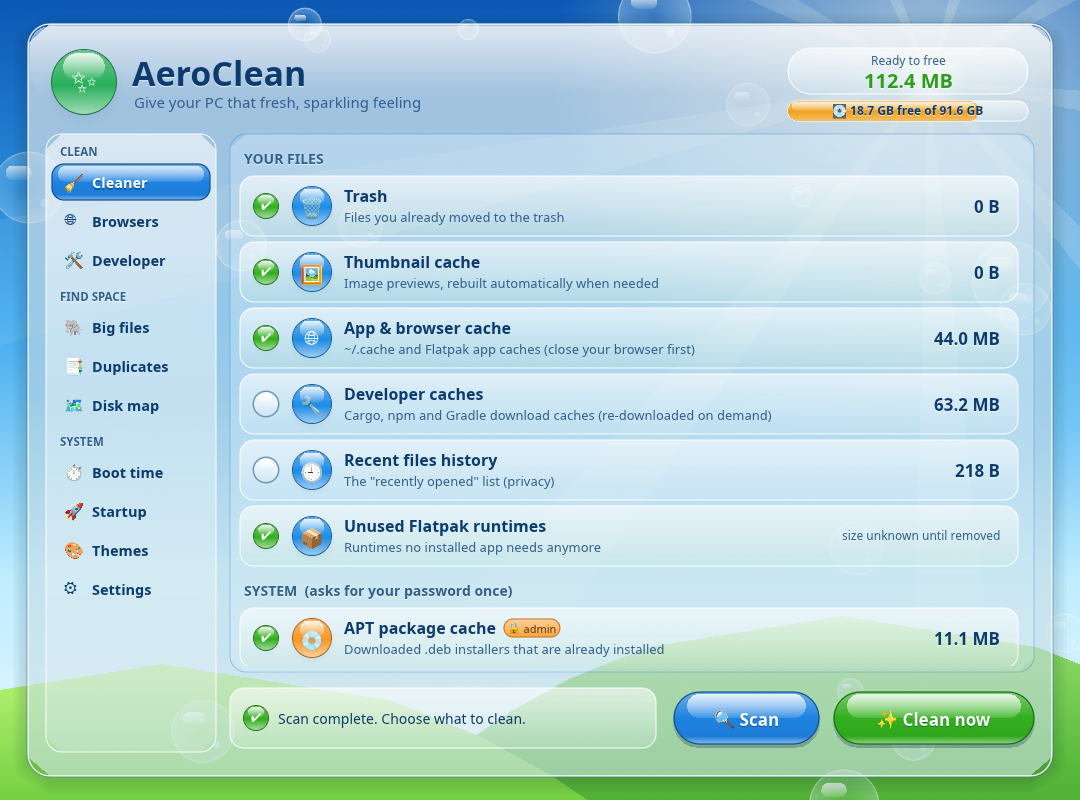
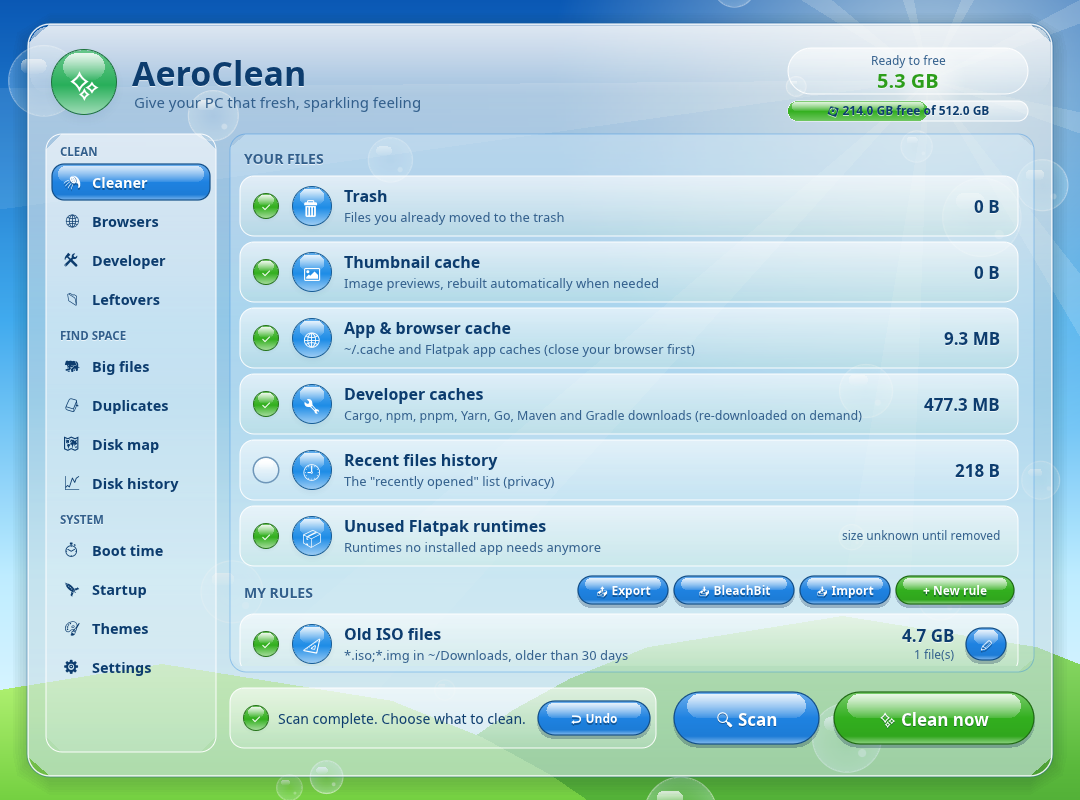
README: new screenshots and an updated feature list
Ten fresh screenshots of the current app (Frutiger Aero theme, sample
folders and files): Cleaner, rules, Developer, Leftovers, Duplicates
with similar photos, Disk history, Disk map, Boot time, French, Themes.
The feature list is regrouped and covers everything up to 1.5.

The screenshot test can pick a theme (AERO_SHOT_THEME) and fills every
screen with sample data (AERO_SHOT_DEMO), so README images never show
anyone's real folders.

diff --git a/src/main.rs b/src/main.rs
@@ -945,16 +945,81 @@ mod ui_tests {
             setup_fonts(&cc.egui_ctx);
             App::new(&cc.egui_ctx)
         });
+        // AERO_SHOT_THEME="Frutiger Aero" picks a theme by name.
+        if let Ok(name) = std::env::var("AERO_SHOT_THEME")
+            && let Some(i) = h.state().themes.iter().position(|t| t.name == name)
+        {
+            h.state_mut().theme = i;
+            let ctx = h.ctx.clone();
+            h.state().apply_visuals(&ctx);
+        }
         let only = std::env::var("AERO_SHOT_TAB").ok();
+        let demo = std::env::var("AERO_SHOT_DEMO").is_ok();
+        let days_ago = |d: u64| Some(std::time::SystemTime::now() - std::time::Duration::from_secs(d * 86_400));
         for tab in ALL_TABS {
             if only.as_deref().is_some_and(|o| o != format!("{tab:?}")) {
                 continue;
             }
             h.state_mut().tab = tab;
             // Give background work (scans, drive health) a moment to finish.
-            for _ in 0..30 {
+            for _ in 0..if demo { 60 } else { 30 } {
                 h.run_steps(1);
                 std::thread::sleep(std::time::Duration::from_millis(100));
+            }
+            // Sample folders instead of the real home folder, for README screenshots.
+            if demo && tab == Tab::DiskMap {
+                let home = platform::home();
+                let node = |name: &str, gb: f64, kids: Vec<diskmap::Node>| diskmap::Node {
+                    name: name.into(),
+                    path: home.join(name),
+                    size: (gb * 1e9) as u64,
+                    is_dir: true,
+                    children: kids,
+                };
+                let leaf = |name: &str, gb: f64| node(name, gb, vec![]);
+                let kids = vec![
+                    node("Videos", 38.0, vec![leaf("Vacation 2026", 21.0), leaf("OBS", 12.0), leaf("Clips", 5.0)]),
+                    node("Games", 22.5, vec![leaf("Steam", 18.0), leaf("Emulators", 4.5)]),
+                    node("Pictures", 12.4, vec![leaf("Phone", 8.0), leaf("Screenshots", 4.4)]),
+                    leaf("Downloads", 9.1),
+                    leaf(".cache", 6.3),
+                    leaf("Music", 5.2),
+                    leaf("Documents", 3.8),
+                    leaf(".local", 3.1),
+                    leaf("projects", 2.4),
+                    leaf(".config", 1.2),
+                ];
+                let total = kids.iter().map(|k| k.size).sum();
+                h.state_mut().map =
+                    tabs::MapState { root: Some(diskmap::Node { name: "~".into(), path: home.clone(), size: total, is_dir: true, children: kids }), path: vec![], scanning: None };
+                h.run_steps(2);
+            }
+            if demo && tab == Tab::Developer {
+                let home = platform::home();
+                let item = |kind, p: &str, gb: f64, d| devclean::DevItem { kind, path: home.join(p), size: (gb * 1e9) as u64, project_touched: d };
+                let items = vec![
+                    item(devclean::DevKind::Rust, "projects/game-engine/target", 6.8, days_ago(70)),
+                    devclean::DevItem { kind: devclean::DevKind::Containers, path: "docker system prune -a".into(), size: 4_100_000_000, project_touched: None },
+                    item(devclean::DevKind::Node, "projects/website/node_modules", 1.2, days_ago(45)),
+                    item(devclean::DevKind::Python, "school/ml-homework/.venv", 0.82, days_ago(120)),
+                    item(devclean::DevKind::Node, "projects/portfolio/node_modules", 0.41, days_ago(2)),
+                ];
+                let st = h.state_mut();
+                st.dev.selected = items.iter().map(|i| i.is_stale()).collect();
+                st.dev.items = items;
+                st.dev.waydroid = None;
+                h.run_steps(2);
+            }
+            if demo && tab == Tab::Leftovers {
+                let home = platform::home();
+                let item = |p: &str, mb: f64, d| leftovers::Leftover { path: home.join(p), size: (mb * 1e6) as u64, last_used: d };
+                h.state_mut().leftovers.items = vec![
+                    item(".var/app/com.spotify.Client", 1310.0, days_ago(240)),
+                    item(".config/discord", 640.0, days_ago(300)),
+                    item(".config/Slack", 410.0, days_ago(150)),
+                    item(".local/share/Steam-old", 96.0, days_ago(400)),
+                ];
+                h.run_steps(2);
             }
             // AERO_SHOT_DEMO=1: made-up history, to see a full chart (never saved).
             if tab == Tab::DiskHistory && std::env::var("AERO_SHOT_DEMO").is_ok() {
@@ -962,9 +1027,9 @@ mod ui_tests {
                 let st = h.state_mut();
                 st.disk_hist.samples = (0..60 * 4)
                     .map(|i: u64| {
-                        let wobble = ((i as f64 * 0.7).sin() * 1.5e9) as i64;
-                        let avail = (40e9 - i as f64 * 0.12e9) as i64 + wobble;
-                        diskhistory::Sample { when: now - (60 * 4 - i) * 6 * 3600, total: 91_600_000_000, avail: avail as u64 }
+                        let wobble = ((i as f64 * 0.7).sin() * 3e9) as i64;
+                        let avail = (262e9 - i as f64 * 0.2e9) as i64 + wobble;
+                        diskhistory::Sample { when: now - (60 * 4 - i) * 6 * 3600, total: 512_000_000_000, avail: avail as u64 }
                     })
                     .collect();
                 st.disk_hist.growth = Some((vec![("Videos/OBS".into(), 6_200_000_000), (".cache/yarn".into(), 1_100_000_000), ("Downloads".into(), 420_000_000)], 7));
@@ -981,6 +1046,7 @@ mod ui_tests {
             }
             if tab == Tab::Cleaner && std::env::var("AERO_SHOT_DEMO").is_ok() {
                 let st = h.state_mut();
+                st.disk = Some((512_000_000_000, 214_000_000_000));
                 st.rules = rules::parse(
                     "[Old ISO files]\nfolder = ~/Downloads\npattern = *.iso;*.img\nolder_than_days = 30\nenabled = yes\n[Screen recordings]\nfolder = ~/Videos/OBS\npattern = *.mkv\nolder_than_days = 90\nsubfolders = yes\nenabled = no\n",
                 );
@@ -1018,6 +1084,11 @@ mod ui_tests {
                     },
                 ];
                 h.run_steps(2);
+            }
+            // A neutral disk in the header, not the real one.
+            if demo {
+                h.state_mut().disk = Some((512_000_000_000, 214_000_000_000));
+                h.run_steps(1);
             }
             h.render().unwrap().save(dir.join(format!("{tab:?}.png"))).unwrap();
         }

diff --git a/README.md b/README.md
@@ -9,40 +9,52 @@ Written in Rust with <a href="https://github.com/emilk/egui">egui</a>. English a
 
 ## Features
 
-**Clean**
-- **Cleaner:** trash, thumbnails, app and browser caches, developer caches, recent files list, unused Flatpak runtimes, APT cache, unused packages and old kernels, system journal, rotated logs, crash reports and old temp files. System items ask for your password **once** (pkexec).
-- **Review before cleaning:** see exactly what will be removed. AeroClean warns you if a browser is open.
-- **Undo:** cleaned files are kept for 24 hours (3 days, a week or off in Settings). **↩ Undo** in the Cleaner puts the last clean back; Settings lists every kept clean. Nothing is kept when the disk is almost full.
-- **My rules:** your own cleaning rules, like "`*.iso` in `~/Downloads` older than 30 days", with an editor. Share them as a plain text file, or import **BleachBit**'s cleaners for the apps you have installed.
-- **Browsers:** cache, cookies and history, chosen separately, for Brave, Chrome, Chromium, Vivaldi, Edge and Firefox. Firefox history is removed page by page from its database, so your bookmarks stay.
-- **Leftovers:** folders left behind by apps you uninstalled, untouched for 3 months, moved to the Trash with one click (and wrong guesses can be hidden).
-- **Developer:** Rust `target/` folders, `node_modules` and Python virtualenvs, with "last changed" dates (stale projects are pre-selected), plus unused Docker or Podman images, stopped containers and build cache (never volumes). The Cleaner's developer caches cover Cargo, npm, pnpm, Yarn, Go, Maven and Gradle.
-
-**Find space**
-- **Big files**, with warnings for duplicates and files that belong to apps.
-- **Duplicates**, compared by content (BLAKE3). The oldest copy is kept as the original. Optionally also **similar photos**: resized, re-saved or slightly edited copies of the same picture.
-- **Disk map:** a treemap of your home folder that you can click into.
-- **Disk history:** a chart of your free space over time, a forecast ("at this rate your disk is full in about 3 weeks"), the folders that grew the most this week, and the health of your drives (SMART status, SSD wear, temperature), all without a password.
-- Scans read folders on every CPU core: Big files and Disk map are 2–3× faster than in 1.3.
-
-**System**
-- **Boot time:** last boot by stage (firmware, boot menu, kernel, services), boot history, and the slowest services, with on/off toggles on Linux (system-critical services are locked). On Windows it shows what Windows itself reports as slowing down your boots.
-- **Startup apps:** turn login apps on or off. Only your own settings change, never system files.
-- **Automation:** a weekly automatic clean and a low disk space alert (systemd user timers, no password needed).
-
-**Make it yours**
-- 5 themes: Frutiger Aero, Aqua Abyss, Sunset Vista, Aurora Night and Sakura Spring.
-- Folders to keep, journal retention, big file threshold, a remembered selection, and language.
-- **Keyboard:** Tab and the arrow keys move between controls, Space or Enter activates them, Ctrl+1…0 (Cmd on macOS) jumps to a screen.
-- **Update check (optional, off by default):** once a day it asks GitHub for the latest version number and shows a button when there's a new one. Nothing about you is sent.
-- Battery friendly: animations pause when the window isn't active, and there's a "Reduce motion" option.
+### Clean
+- **Cleaner:** caches, thumbnails, the Trash, crash reports, old logs and temp files, unused packages (APT and Flatpak on Linux, Homebrew on macOS, superseded components on Windows) and developer download caches (Cargo, npm, pnpm, Yarn, Go, Maven, Gradle). System items ask for your password **once**.
+- **Review first:** a "Ready to clean?" sheet lists exactly what will go, and warns you if a browser is open.
+- **Undo:** cleaned files are kept for 24 hours (3 days, a week or off). **↩ Undo** puts the last clean back, and Settings lists every kept clean. Nothing is kept when the disk is almost full.
+- **My rules:** your own rules, like "`*.iso` in `~/Downloads` older than 30 days", made in an editor and cleaned with everything else. Share them as a plain text file, or import **BleachBit**'s cleaners for the apps you have installed.
+- **Browsers:** cache, cookies and history, chosen separately, for Brave, Chrome, Chromium, Vivaldi, Edge and Firefox. Firefox history is removed page by page, so your bookmarks stay.
+- **Developer:** Rust `target/` folders, `node_modules` and Python virtualenvs with "last changed" dates (stale projects are pre-selected), plus unused Docker or Podman images, stopped containers and build cache (never volumes).
+- **Leftovers:** folders left behind by apps you uninstalled, untouched for 3 months. Move them to the Trash, or hide a wrong guess.
 
 | | |
 |---|---|
-| ![Disk map](docs/screenshots/disk-map.png) | ![Developer cleanup](docs/screenshots/developer.png) |
-| ![Boot time](docs/screenshots/boot-time.png) | ![French](docs/screenshots/french.png) |
+| ![My rules](docs/screenshots/rules.png) | ![Developer cleanup](docs/screenshots/developer.png) |
+| ![Leftovers](docs/screenshots/leftovers.png) | ![Duplicates and similar photos](docs/screenshots/duplicates.png) |
+
+### Find space
+- **Big files**, with warnings for duplicates and files that belong to apps.
+- **Duplicates**, compared by content. The oldest copy is kept as the original. Optionally also **similar photos**: resized, re-saved or slightly edited copies of the same picture.
+- **Disk map:** a treemap of your home folder that you can click into.
+- **Disk history:** your free space over time, a forecast ("at this rate your disk is full in about 9 months"), the folders that grew the most this week, and your drives' health (SMART status, SSD wear, temperature), all without a password.
+- Scans use every CPU core: Big files and Disk map are 2–3× faster than in 1.3.
+
+| | |
+|---|---|
+| ![Disk history](docs/screenshots/disk-history.png) | ![Disk map](docs/screenshots/disk-map.png) |
+
+### System
+- **Boot time:** the last boot by stage, boot history and the slowest services. On Linux you can turn services off (system-critical ones are locked); on Windows it shows what Windows reports as slowing your boots.
+- **Startup apps:** turn login apps on or off. Only your own settings change, never system files.
+- **Automation:** a weekly automatic clean and a low disk space alert that includes the forecast. No password needed.
+- **Cleaning reports:** export your cleaning history as CSV or Markdown.
+
+### Make it yours
+- **5 themes:** Frutiger Aero, Aqua Abyss, Sunset Vista, Aurora Night and Sakura Spring.
+- **English and French**, chosen automatically from your system or in Settings.
+- **Settings:** folders to keep, how long to keep cleaned files, journal retention, big file size, a remembered selection.
+- **Keyboard:** Tab and the arrow keys move between controls, Space or Enter activates them, Ctrl+1…0 (Cmd on macOS) jumps to a screen.
+- **Update check** (optional, off by default): once a day it asks GitHub for the latest version number. Nothing about you is sent.
+- **Battery friendly:** animations pause when the window isn't active, and there's a "Reduce motion" option.
+
+| | |
+|---|---|
+| ![Boot time](docs/screenshots/boot-time.png) | ![En français](docs/screenshots/french.png) |
 
 ![Themes](docs/screenshots/themes.png)
+
+<sub>Screenshots use sample folders and files.</sub>
 
 ## Linux, Windows and macOS
 
